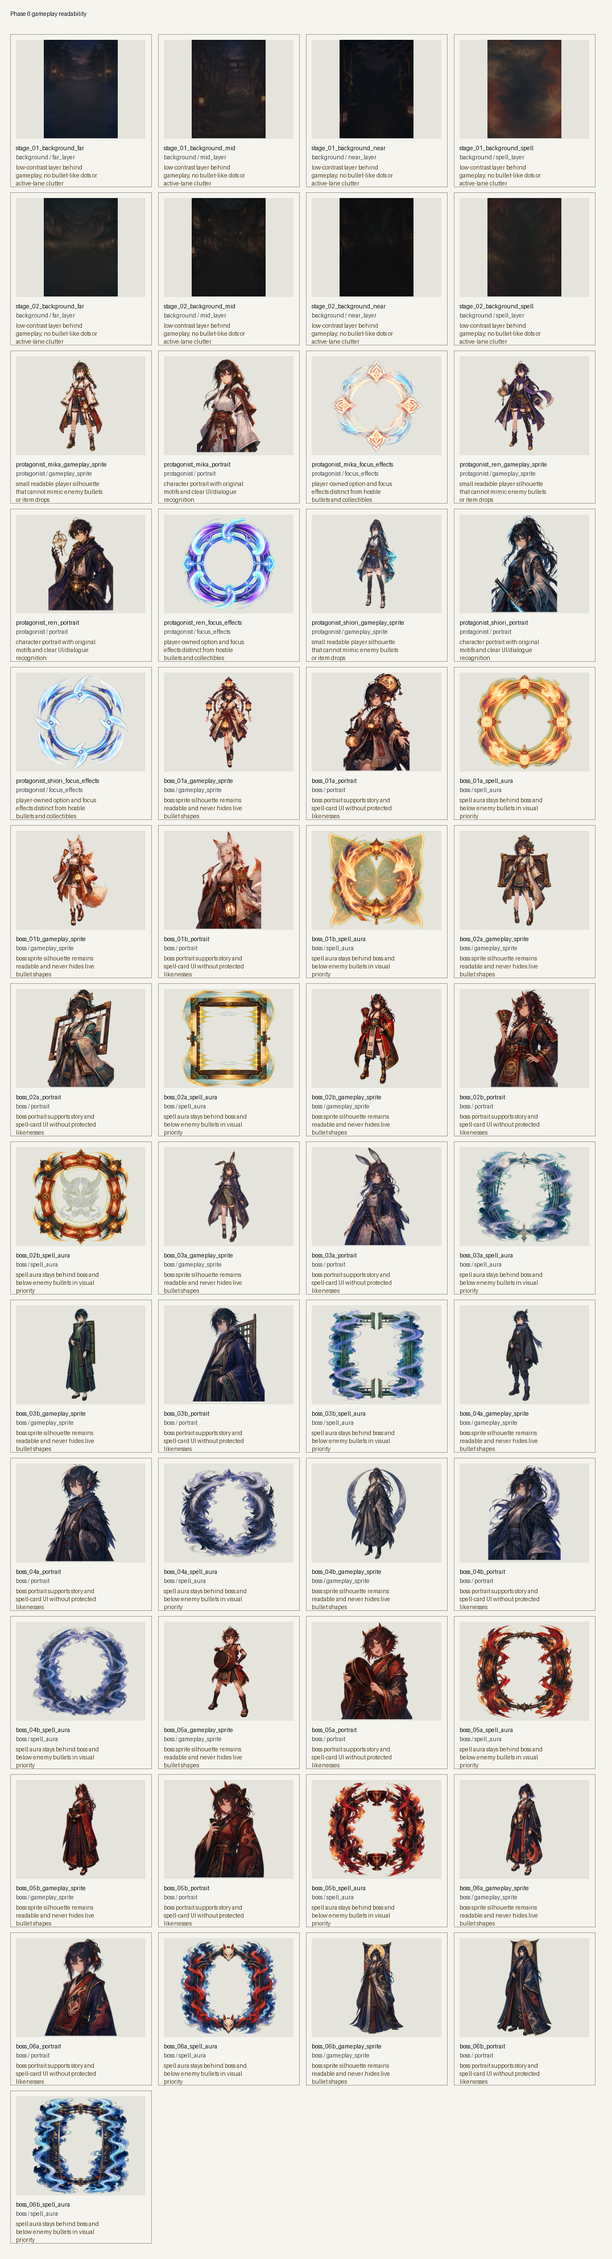
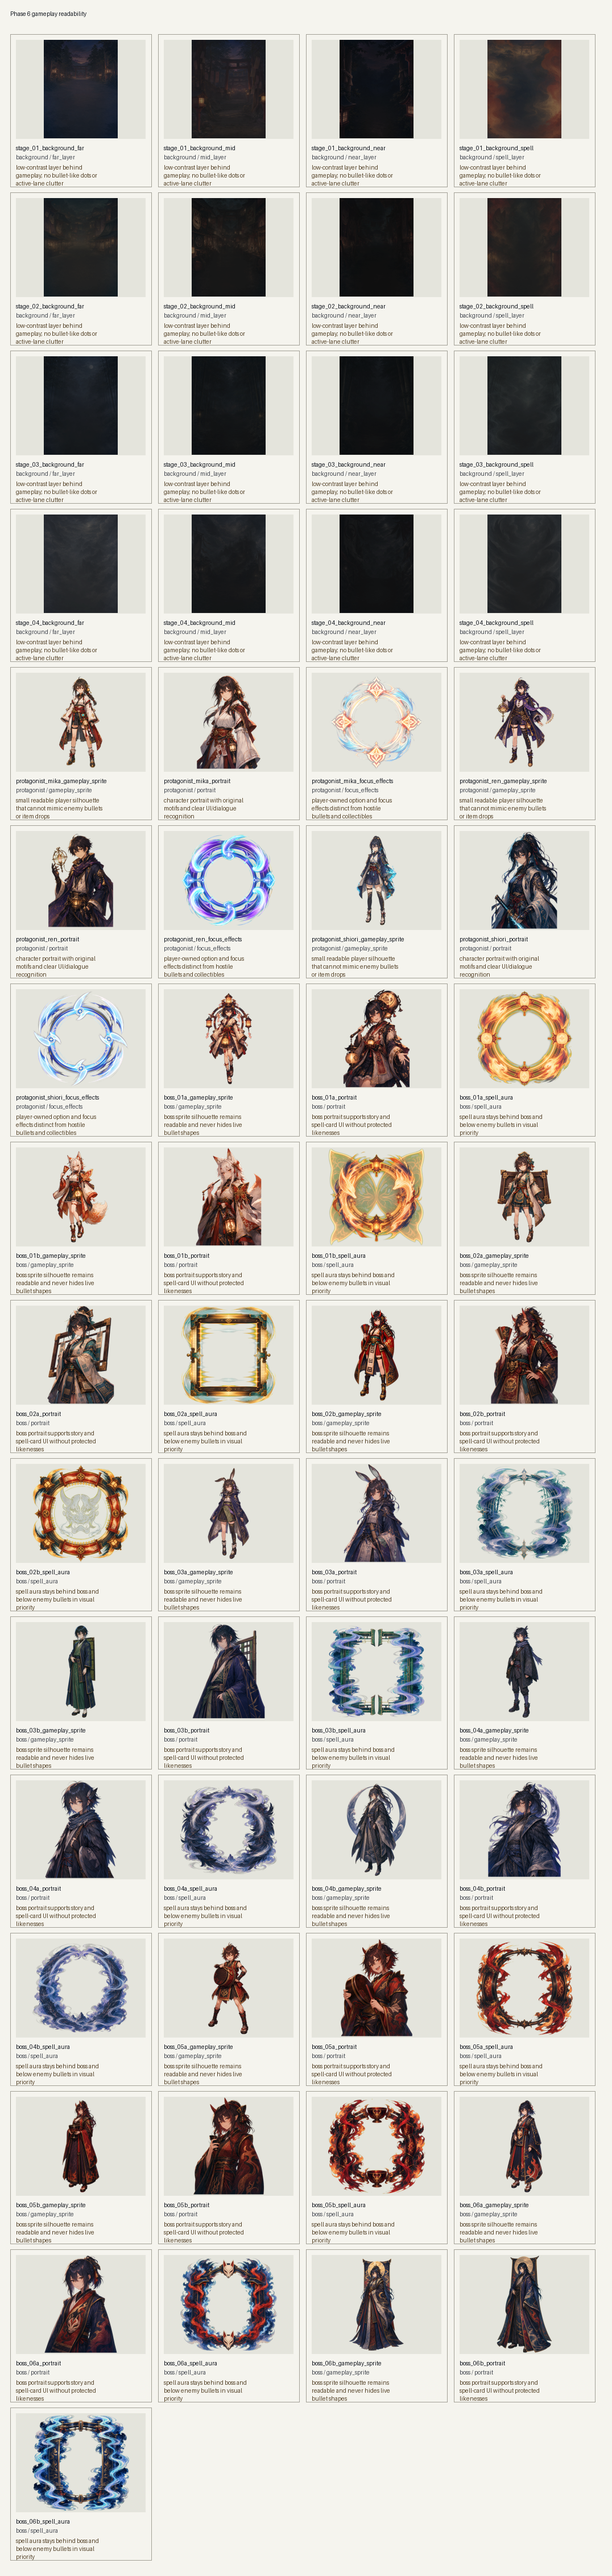
feat: add phase 6 backgrounds stages 3-4

diff --git a/docs/art/review/phase6_asset_acceptance.md b/docs/art/review/phase6_asset_acceptance.md
@@ -56,3 +56,11 @@
 | stage_02_background_mid | accepted | Masks, banners, and tool motifs stay behind gameplay; no coin-sized highlights compete with items. | Matches Stage 2 market identity. | Accepted after dense composite tested red bullets, gold needles, score items, and player shots. |
 | stage_02_background_near | accepted | Edge-only awnings and stall silhouettes leave the lower-center player route open. | Matches dark market framing language. | Active lanes were softened and darkened to avoid item/bullet confusion. |
 | stage_02_background_spell | accepted | Broad market haze and mask aura avoid bead rows, coin sparkles, and small lantern dots. | Matches Stage 2 spell atmosphere direction. | Accepted in spell-layer composite with extra gold score-item checks. |
+| stage_03_background_far | accepted | Moonlit bamboo distance is soft and low contrast; moon and fog stay behind projectile priority. | Matches Stage 3 mist bamboo grove palette. | Final processing reduced bright cyan/silver lane contrast. |
+| stage_03_background_mid | accepted | Bamboo trunks and fog curtains avoid needle-like center highlights and do not erase bullet rims. | Matches Stage 3 lost-path identity. | Accepted after composite tested cyan rice, gold needles, red circles, and items. |
+| stage_03_background_near | accepted | Large edge bamboo shapes frame the field without crossing the player route. | Matches dark bamboo edge-framing language. | Central and lower lanes were softened and darkened. |
+| stage_03_background_spell | accepted | Broad moonlit illusion fog contains no motes, bead rings, or sharp bamboo shards. | Matches Stage 3 spell atmosphere direction. | Accepted in spell-layer composite; bullets remain readable through fog. |
+| stage_04_background_far | accepted | High-altitude mountain distance is broad and low contrast; no talisman-like paper marks in active lanes. | Matches Stage 4 tengu mountain palette. | Final processing calmed cloud whites and central-lane contrast. |
+| stage_04_background_mid | accepted | Path, cloud, and wind motifs stay behind gameplay; red talisman bullets keep clear white rims. | Matches Stage 4 mountain path identity. | Accepted after composite tested talisman blocks, gold needles, stars, and player shots. |
+| stage_04_background_near | accepted | Large edge banners and cliff shapes do not cross the player route or mimic active talismans. | Matches Stage 4 edge-framing language. | Paper-white accents were softened and darkened. |
+| stage_04_background_spell | accepted | Broad storm-cloud and feather-shadow arcs avoid small particles, paper strips, and needle-like streaks. | Matches Stage 4 spell atmosphere direction. | Accepted in spell-layer composite with projectile families visible. |

diff --git a/docs/art/review/phase6_contact_sheets.md b/docs/art/review/phase6_contact_sheets.md
@@ -5,5 +5,5 @@
 | style | 1 | `phase6_contact_sheet_style.png` | ready for review |
 | protagonists | 9 | `phase6_contact_sheet_protagonists.png` | ready for review |
 | bosses | 36 | `phase6_contact_sheet_bosses.png` | ready for review |
-| backgrounds | 8 | `phase6_contact_sheet_backgrounds.png` | ready for review |
-| gameplay_readability | 53 | `phase6_contact_sheet_gameplay_readability.png` | ready for review |
+| backgrounds | 16 | `phase6_contact_sheet_backgrounds.png` | ready for review |
+| gameplay_readability | 61 | `phase6_contact_sheet_gameplay_readability.png` | ready for review |
